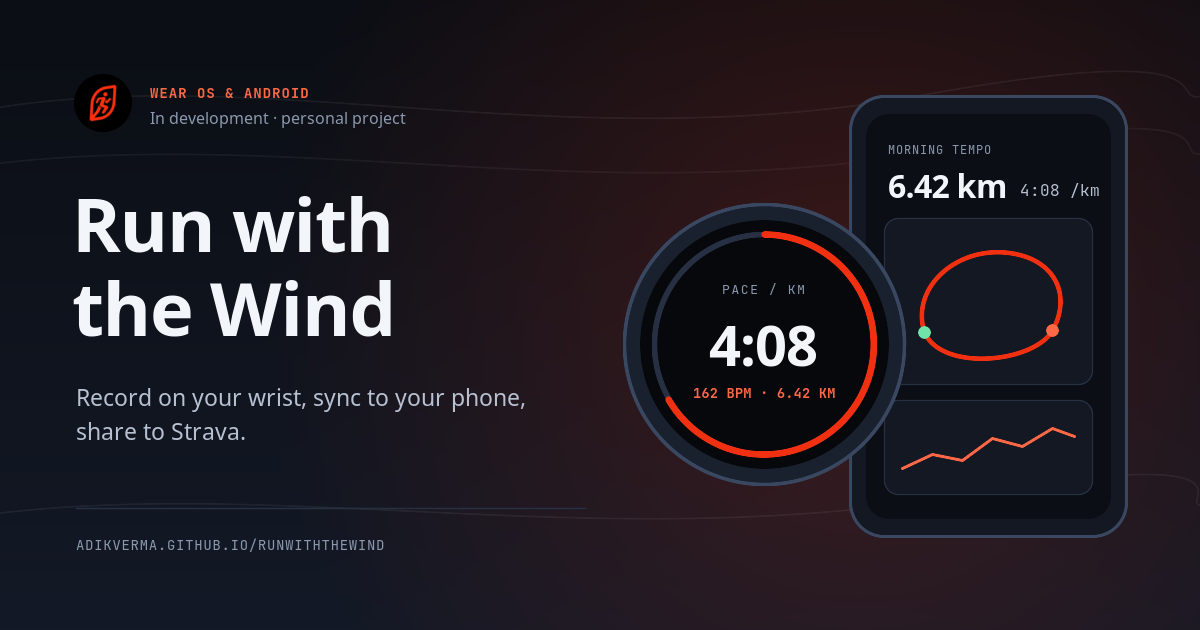
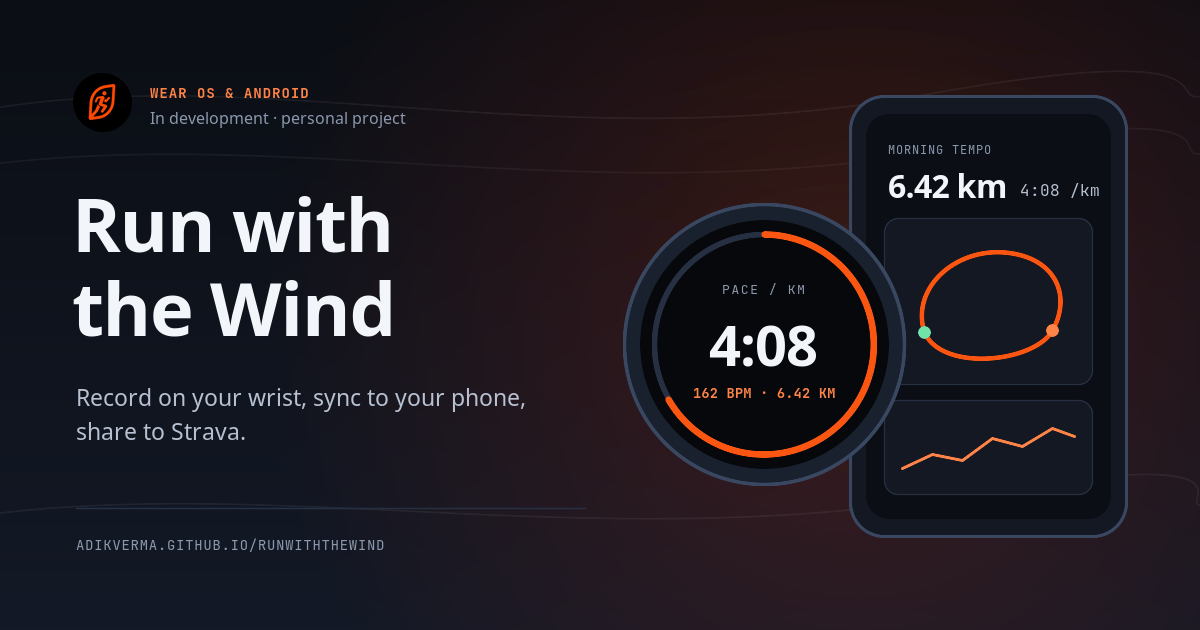
style: update brand color to #FC4C02
Update logo and graphics to use the updated brand color (#FC4C02) and refine the favicon design.

diff --git a/runwiththewind/index.html b/runwiththewind/index.html
@@ -383,10 +383,10 @@
                   <rect width="240" height="300" fill="#0b0e14" />
                   <circle cx="120" cy="150" r="94" fill="#06080c" stroke="#394760" stroke-width="5" />
                   <circle cx="120" cy="150" r="82" fill="none" stroke="#263042" stroke-width="4" />
-                  <path d="M 120 68 A 82 82 0 1 1 56 201" fill="none" stroke="#f03010" stroke-width="5" stroke-linecap="round" />
+                  <path d="M 120 68 A 82 82 0 1 1 56 201" fill="none" stroke="#fc4c02" stroke-width="5" stroke-linecap="round" />
                   <text x="120" y="114" text-anchor="middle" fill="#8b98ad" font-size="11" font-family="sans-serif">DISTANCE</text>
                   <text x="120" y="160" text-anchor="middle" fill="#f2f5fa" font-size="42" font-weight="700" font-family="sans-serif">6.42</text>
-                  <text x="120" y="192" text-anchor="middle" fill="#ff6847" font-size="13" font-weight="600" font-family="sans-serif">4:08 /km · 162 bpm</text>
+                  <text x="120" y="192" text-anchor="middle" fill="#ff7438" font-size="13" font-weight="600" font-family="sans-serif">4:08 /km · 162 bpm</text>
                 </svg>
               </div>
               <figcaption class="screen-cap">
@@ -439,12 +439,12 @@
                 <svg viewBox="0 0 240 300" role="img" aria-label="Illustrative Android phone route map and pace charts">
                   <rect width="240" height="300" fill="#131822" />
                   <rect x="18" y="22" width="204" height="140" rx="12" fill="#0b0e14" stroke="#263042" />
-                  <path d="M 48 124 C 34 86, 76 46, 128 50 C 180 54, 198 88, 180 120 C 162 146, 66 150, 48 124 Z" fill="none" stroke="#f03010" stroke-width="3.5" />
+                  <path d="M 48 124 C 34 86, 76 46, 128 50 C 180 54, 198 88, 180 120 C 162 146, 66 150, 48 124 Z" fill="none" stroke="#fc4c02" stroke-width="3.5" />
                   <circle cx="48" cy="124" r="5" fill="#6fe3a8" />
-                  <circle cx="180" cy="120" r="5" fill="#ff6847" />
+                  <circle cx="180" cy="120" r="5" fill="#ff7438" />
                   <rect x="18" y="176" width="204" height="102" rx="12" fill="#0b0e14" stroke="#263042" />
                   <text x="30" y="200" fill="#8b98ad" font-size="11" font-family="sans-serif">PACE &amp; HEART RATE</text>
-                  <path d="M 30 252 L 66 238 L 102 244 L 138 224 L 174 232 L 208 214" fill="none" stroke="#ff6847" stroke-width="2.8" stroke-linecap="round" />
+                  <path d="M 30 252 L 66 238 L 102 244 L 138 224 L 174 232 L 208 214" fill="none" stroke="#ff7438" stroke-width="2.8" stroke-linecap="round" />
                 </svg>
               </div>
               <figcaption class="screen-cap">
@@ -460,7 +460,7 @@
                   <rect x="18" y="118" width="204" height="156" rx="16" fill="#1a212e" stroke="#394760" />
                   <text x="34" y="152" fill="#f2f5fa" font-size="15" font-weight="700" font-family="sans-serif">Share activity</text>
                   <text x="34" y="174" fill="#8b98ad" font-size="11" font-family="sans-serif">6.42 km · 26:34 · Morning Tempo</text>
-                  <rect x="34" y="196" width="172" height="36" rx="8" fill="#c92409" />
+                  <rect x="34" y="196" width="172" height="36" rx="8" fill="#c23a00" />
                   <text x="120" y="219" text-anchor="middle" fill="#ffffff" font-size="12" font-weight="700" font-family="sans-serif">Upload to Strava</text>
                   <text x="34" y="254" fill="#6fe3a8" font-size="11" font-weight="600" font-family="sans-serif">One-tap upload</text>
                 </svg>

diff --git a/assets/css/product.css b/assets/css/product.css
@@ -27,7 +27,7 @@
 
 /* =========================================================================
    RUN WITH THE WIND — STANDALONE DESIGN TOKENS (Dawn Air / Pre-Dawn Track)
-   Derived from /assets/img/run-with-the-wind-logo.webp (#F03010, #4B0802, #010000)
+   Derived from /assets/img/run-with-the-wind-logo.webp (#FC4C02, #000000)
    ========================================================================= */
 :root {
   color-scheme: light dark;
@@ -42,21 +42,21 @@
   --ink-secondary: #3e4857;
   --ink-muted: #556173;
 
-  --brand: #c92409;
-  --brand-hover: #a81c06;
-  --brand-mark: #f03010;
-  --brand-tint: #fceae6;
+  --brand: #c23a00;
+  --brand-hover: #a33000;
+  --brand-mark: #fc4c02;
+  --brand-tint: #fff0e8;
   --on-brand: #ffffff;
-  --hero-glow: radial-gradient(ellipse 72% 60% at 78% 12%, rgba(240, 48, 16, 0.09), transparent 70%);
+  --hero-glow: radial-gradient(ellipse 72% 60% at 78% 12%, rgba(252, 76, 2, 0.1), transparent 70%);
   --wind-stroke: rgba(17, 22, 31, 0.07);
 
   /* Status tokens (paired always with explicit text) */
   --st-avail-bg: #e5f5ec;
   --st-avail-ink: #0f5b35;
   --st-avail-bd: #b6dfc8;
-  --st-prog-bg: #fdece8;
-  --st-prog-ink: #9e1f09;
-  --st-prog-bd: #f5c2b7;
+  --st-prog-bg: #fff0e8;
+  --st-prog-ink: #a83200;
+  --st-prog-bd: #f7c9b2;
   --st-plan-bg: #eceff4;
   --st-plan-ink: #414d5e;
   --st-plan-bd: #cfd7e2;
@@ -87,18 +87,18 @@
     --ink-secondary: #b7c1d1;
     --ink-muted: #8b98ad;
 
-    --brand: #ff6847;
-    --brand-hover: #ff7e62;
-    --brand-tint: #2a1412;
-    --hero-glow: radial-gradient(ellipse 72% 60% at 78% 12%, rgba(240, 48, 16, 0.16), transparent 70%);
+    --brand: #ff7438;
+    --brand-hover: #ff8d5c;
+    --brand-tint: #2b170e;
+    --hero-glow: radial-gradient(ellipse 72% 60% at 78% 12%, rgba(252, 76, 2, 0.17), transparent 70%);
     --wind-stroke: rgba(242, 245, 250, 0.06);
 
     --st-avail-bg: #102a1e;
     --st-avail-ink: #6fe3a8;
     --st-avail-bd: #1e543b;
-    --st-prog-bg: #2e1511;
-    --st-prog-ink: #ff8c73;
-    --st-prog-bd: #5c281e;
+    --st-prog-bg: #2e180e;
+    --st-prog-ink: #ff9466;
+    --st-prog-bd: #5e2e16;
     --st-plan-bg: #1a2230;
     --st-plan-ink: #b3c0d4;
     --st-plan-bd: #313e54;
@@ -117,18 +117,18 @@
   --ink-secondary: #b7c1d1;
   --ink-muted: #8b98ad;
 
-  --brand: #ff6847;
-  --brand-hover: #ff7e62;
-  --brand-tint: #2a1412;
-  --hero-glow: radial-gradient(ellipse 72% 60% at 78% 12%, rgba(240, 48, 16, 0.16), transparent 70%);
+  --brand: #ff7438;
+  --brand-hover: #ff8d5c;
+  --brand-tint: #2b170e;
+  --hero-glow: radial-gradient(ellipse 72% 60% at 78% 12%, rgba(252, 76, 2, 0.17), transparent 70%);
   --wind-stroke: rgba(242, 245, 250, 0.06);
 
   --st-avail-bg: #102a1e;
   --st-avail-ink: #6fe3a8;
   --st-avail-bd: #1e543b;
-  --st-prog-bg: #2e1511;
-  --st-prog-ink: #ff8c73;
-  --st-prog-bd: #5c281e;
+  --st-prog-bg: #2e180e;
+  --st-prog-ink: #ff9466;
+  --st-prog-bd: #5e2e16;
   --st-plan-bg: #1a2230;
   --st-plan-ink: #b3c0d4;
   --st-plan-bd: #313e54;
@@ -398,14 +398,14 @@ html.js .no-js-only {
 }
 
 .btn-primary {
-  background: #c92409;
+  background: #c23a00;
   color: var(--on-brand);
-  border: 1px solid #c92409;
+  border: 1px solid #c23a00;
 }
 
 .btn-primary:hover {
-  background: #a81c06;
-  border-color: #a81c06;
+  background: #a33000;
+  border-color: #a33000;
 }
 
 .btn-secondary {
